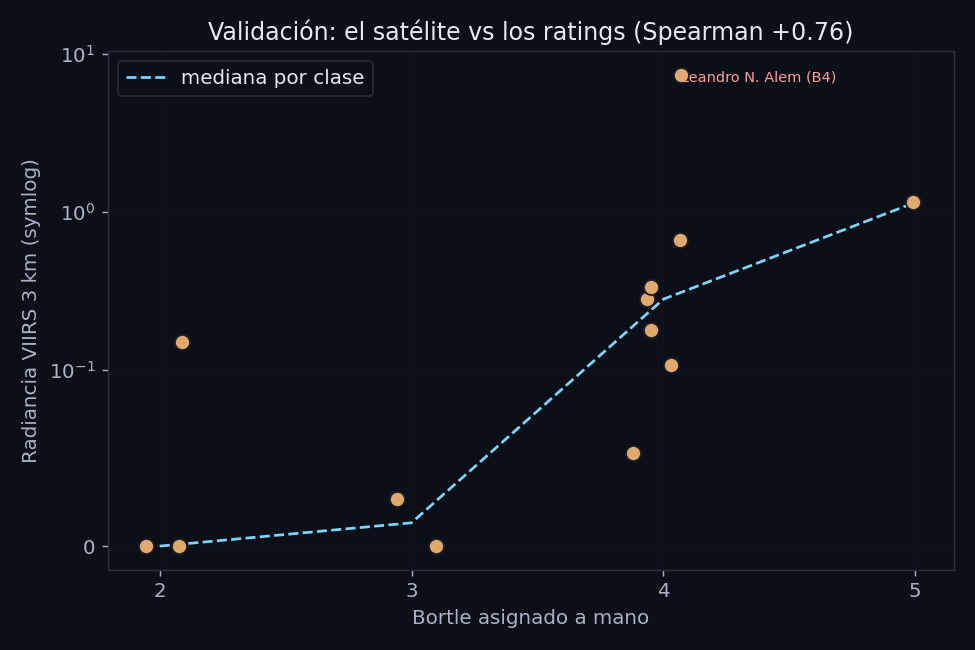
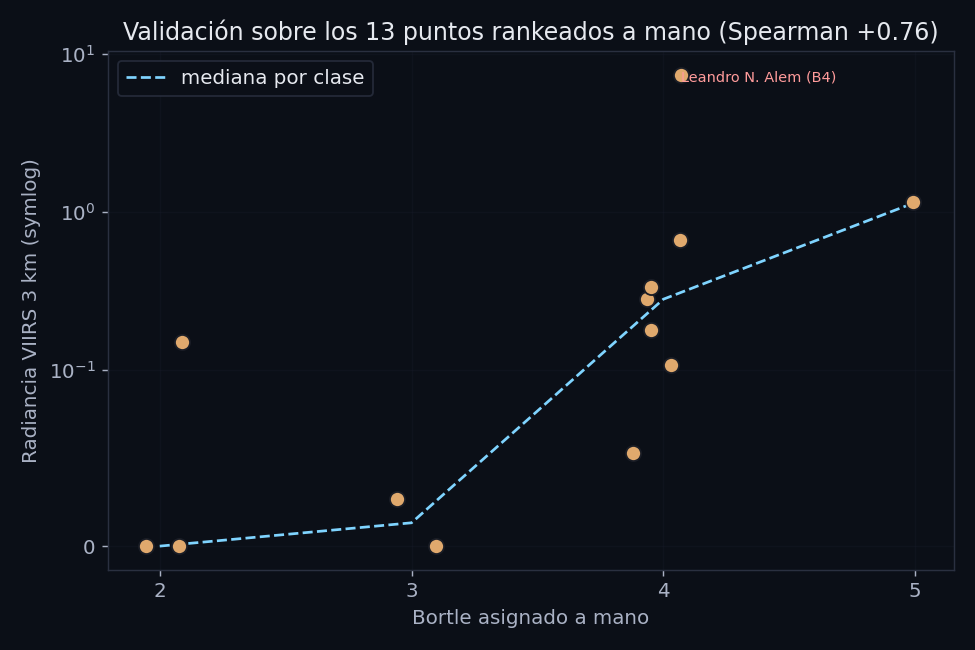
data-science: heatmap a 21 puntos; validacion explicita sobre los 13 originales
- figures_web.py: el heatmap ("El mapa") ahora muestra los 21 puntos; la
  validacion se restringe a los 13 originales (Bortle a mano e independiente) —
  los 8 nuevos tomaron su Bortle del satelite, asi que incluirlos seria circular.
- Regeneradas heatmap.png (21 puntos) y validacion.png (titulo explicito "13").
- Pagina: captions y texto alineados (21 en el mapa, 13 en la validacion, con la
  aclaracion de por que); Vedia ahora menciona su partido (Leandro N. Alem) para
  coincidir con la etiqueta del grafico.

Changed region(s): [[0.1231, 0.0308, 0.9538, 0.0615]]

diff --git a/app/data-science/page.tsx b/app/data-science/page.tsx
@@ -122,11 +122,11 @@ export default function DataSciencePage() {
             </div>
             <Figure
               src="/data-science/heatmap.png"
-              alt="Mapa de contaminación lumínica VIIRS de la Provincia de Buenos Aires, con los 13 puntos de observación"
+              alt="Mapa de contaminación lumínica VIIRS de la Provincia de Buenos Aires, con los 21 puntos de observación"
               width={975}
               height={1105}
               narrow
-              caption="Radiancia VIIRS 2024 recortada a la Provincia (escala log). En cyan, los puntos de StarMap BA. El AMBA concentra casi toda la luz; el resto del territorio es mayormente oscuro."
+              caption="Radiancia VIIRS 2024 recortada a la Provincia (escala log). En cyan, los 21 puntos de StarMap BA. El AMBA concentra casi toda la luz; el resto del territorio es mayormente oscuro."
             />
             <p className="text-sm leading-relaxed text-fg-muted">
               El <strong className="text-fg">94.5%</strong> de la Provincia está por
@@ -150,9 +150,15 @@ export default function DataSciencePage() {
               alt="Gráfico de radiancia satelital contra el Bortle asignado a mano, mostrando correlación positiva"
               width={975}
               height={650}
-              caption="Radiancia satelital (promedio en 3 km) según el Bortle asignado a mano. La mediana por clase sube de forma monótona: más Bortle, más luz."
+              caption="Radiancia satelital (promedio en 3 km) según el Bortle asignado a mano, en los 13 puntos originales. La mediana por clase sube de forma monótona: más Bortle, más luz."
             />
             <div className="space-y-3 text-sm leading-relaxed text-fg-muted">
+              <p>
+                Validé sobre los <strong className="text-fg">13 puntos originales</strong>,
+                que rankeé a mano de forma independiente. (Los otros 8 del mapa nacieron
+                después, usando el satélite, así que no entran acá: validarlos contra el
+                mismo dato sería trampa.)
+              </p>
               <p>
                 La relación es fuerte y monótona:{" "}
                 <strong className="text-fg">Spearman +0.76</strong>. Los puntos Bortle
@@ -166,9 +172,9 @@ export default function DataSciencePage() {
                 resplandor del pueblo cercano (que es lo que define el Bortle del lugar).
               </p>
               <p>
-                Y un hallazgo honesto: <strong className="text-fg">Vedia</strong> (Bortle
-                4) sale más brillante de lo esperado — está a 2 km del pueblo. El dato
-                sugiere revisarlo.
+                Y un hallazgo honesto: <strong className="text-fg">Vedia</strong> (partido
+                de Leandro N. Alem, Bortle 4) sale más brillante de lo esperado — está a
+                2 km del pueblo. El dato sugiere revisarlo.
               </p>
               <p>
                 <a

diff --git a/notebooks/figures_web.py b/notebooks/figures_web.py
@@ -35,6 +35,15 @@ plt.rcParams.update({
 
 pts = json.loads((HERE.parent / "data" / "seed-points.json").read_text("utf-8"))["puntos"]
 df = pd.DataFrame(pts)
+
+# Los 8 puntos agregados en v6 tomaron su Bortle DEL satélite (radiancia VIIRS),
+# así que NO entran en la validación (sería circular). La validación es solo
+# sobre los 13 originales, con Bortle asignado a mano de forma independiente.
+NUEVOS = {
+    "observatorio-parque-centenario", "observatorio-la-plata",
+    "observatorio-mercedes", "domselaar-san-vicente", "francisco-berra-monte",
+    "sur-general-belgrano", "la-luisa-capitan-sarmiento", "noroeste-chivilcoy",
+}
 with rasterio.open(HERE / "data" / "viirs_ba_2024.tif") as ds:
     arr = ds.read(1).astype("float64")
     b = ds.bounds
@@ -62,7 +71,7 @@ fig, ax = plt.subplots(figsize=(7.5, 8.5))
 disp = np.where(arr > 0, arr, np.nan)
 im = ax.imshow(disp, extent=[b.left, b.right, b.bottom, b.top], origin="upper",
                cmap="inferno", norm=LogNorm(vmin=0.3, vmax=float(np.nanpercentile(disp, 99.9))))
-ax.scatter(df.lng, df.lat, c=CYAN, s=42, edgecolor="white", linewidth=0.7, zorder=3, label="13 puntos")
+ax.scatter(df.lng, df.lat, c=CYAN, s=36, edgecolor="white", linewidth=0.6, zorder=3, label=f"{len(df)} puntos")
 ax.set(title="Contaminación lumínica VIIRS — Buenos Aires (2024)", xlabel="Longitud", ylabel="Latitud")
 cb = plt.colorbar(im, ax=ax, label="Radiancia [nW/cm²/sr] (log)", shrink=0.7)
 cb.ax.yaxis.label.set_color(FG_MUTED)
@@ -72,20 +81,21 @@ fig.tight_layout()
 fig.savefig(OUT / "heatmap.png", dpi=130)
 plt.close(fig)
 
-# Fig 2 — validación
+# Fig 2 — validación (solo los 13 originales: Bortle a mano e independiente)
+val = df[~df["slug"].isin(NUEVOS)]
 fig, ax = plt.subplots(figsize=(7.5, 5))
 rng = np.random.default_rng(7)
-ax.scatter(df.bortle + rng.uniform(-0.12, 0.12, len(df)), df.rad_3km,
+ax.scatter(val.bortle + rng.uniform(-0.12, 0.12, len(val)), val.rad_3km,
            s=70, color=ACCENT, edgecolor="#1a1d26", zorder=3)
-med = df.groupby("bortle")["rad_3km"].median()
+med = val.groupby("bortle")["rad_3km"].median()
 ax.plot(med.index, med.values, "--", color=CYAN, label="mediana por clase")
-out = df.loc[df.rad_3km.idxmax()]
+out = val.loc[val.rad_3km.idxmax()]
 ax.annotate(f"{out.partido} (B{out.bortle})", (out.bortle, out.rad_3km),
             textcoords="offset points", xytext=(10, -4), fontsize=8, color="#ff9b9b")
 ax.set_yscale("symlog", linthresh=0.1)
 ax.set_xticks([2, 3, 4, 5])
 ax.set(xlabel="Bortle asignado a mano", ylabel="Radiancia VIIRS 3 km (symlog)",
-       title="Validación: el satélite vs los ratings (Spearman +0.76)")
+       title=f"Validación sobre los {len(val)} puntos rankeados a mano (Spearman +0.76)")
 style_legend(ax)
 ax.grid(True, alpha=0.25)
 fig.tight_layout()
